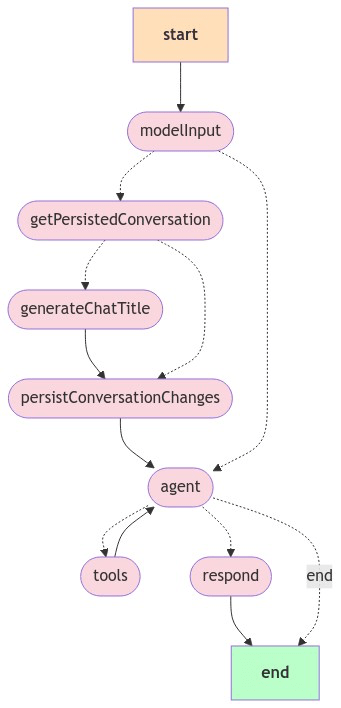
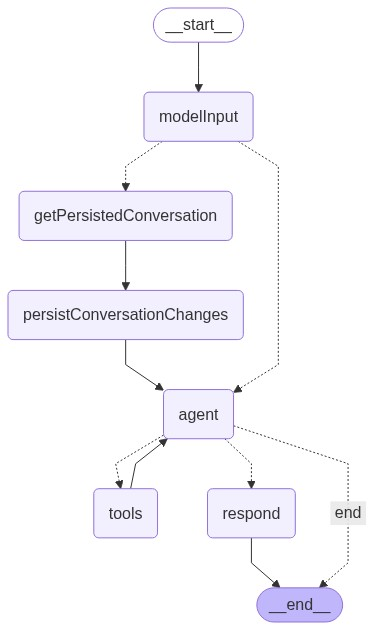
[Security assistant] Remove title creation step from graph (#226864)

diff --git a/x-pack/solutions/security/plugins/elastic_assistant/server/lib/langchain/graphs/default_assistant_graph/nodes/generate_chat_title.ts b/x-pack/solutions/security/plugins/elastic_assistant/server/lib/langchain/graphs/default_assistant_graph/nodes/generate_chat_title.ts
@@ -10,9 +10,11 @@ import { ChatPromptTemplate } from '@langchain/core/prompts';
 import { BaseChatModel } from '@langchain/core/language_models/chat_models';
 import { TelemetryParams } from '@kbn/langchain/server/tracers/telemetry/telemetry_tracer';
 import { AnalyticsServiceSetup } from '@kbn/core-analytics-server';
+import { NEW_CHAT } from '../../../../../routes/helpers';
+import { AIAssistantConversationsDataClient } from '../../../../../ai_assistant_data_clients/conversations';
 import { INVOKE_ASSISTANT_ERROR_EVENT } from '../../../../telemetry/event_based_telemetry';
 import { getPrompt, promptDictionary } from '../../../../prompt';
-import { AgentState, NodeParamsBase } from '../types';
+import { GraphInputs, NodeParamsBase } from '../types';
 import { NodeType } from '../constants';
 import { promptGroupId } from '../../../../prompt/local_prompt_object';
 import { getActionTypeId } from '../../../../../routes/utils';
@@ -30,25 +32,43 @@ export const GENERATE_CHAT_TITLE_PROMPT = ({
   ]);
 
 export interface GenerateChatTitleParams extends NodeParamsBase {
-  state: AgentState;
+  state: Pick<
+    GraphInputs,
+    'connectorId' | 'conversationId' | 'llmType' | 'responseLanguage' | 'input' | 'isStream'
+  >;
   model: BaseChatModel;
+  conversationsDataClient?: AIAssistantConversationsDataClient;
   telemetryParams?: TelemetryParams;
   telemetry: AnalyticsServiceSetup;
 }
 
 export async function generateChatTitle({
   actionsClient,
+  conversationsDataClient,
   logger,
   savedObjectsClient,
   state,
   model,
   telemetryParams,
   telemetry,
-}: GenerateChatTitleParams): Promise<Partial<AgentState>> {
+}: GenerateChatTitleParams): Promise<void> {
+  if (!state.conversationId) {
+    return;
+  }
   try {
     logger.debug(
       () => `${NodeType.GENERATE_CHAT_TITLE}: Node state:\n${JSON.stringify(state, null, 2)}`
     );
+    const conversation = await conversationsDataClient?.getConversation({
+      id: state.conversationId,
+    });
+    if (!conversation) {
+      logger.debug('No conversation found, skipping chat title generation');
+      return;
+    }
+    if (conversation?.title?.length && conversation?.title !== NEW_CHAT) {
+      return;
+    }
 
     const outputParser = new StringOutputParser();
     const prompt = await getPrompt({
@@ -59,33 +79,42 @@ export async function generateChatTitle({
       provider: state.llmType,
       savedObjectsClient,
     });
-    const graph = GENERATE_CHAT_TITLE_PROMPT({ prompt, responseLanguage: state.responseLanguage })
+    const graph = GENERATE_CHAT_TITLE_PROMPT({
+      prompt,
+      responseLanguage: state.responseLanguage ?? 'English',
+    })
       .pipe(model)
-      .pipe(outputParser);
+      .pipe(outputParser)
+      .withConfig({ runName: 'Generate Chat Title' });
 
     const chatTitle = await graph.invoke({
       input: JSON.stringify(state.input, null, 2),
     });
     logger.debug(`chatTitle: ${chatTitle}`);
 
-    return {
-      chatTitle,
-      lastNode: NodeType.GENERATE_CHAT_TITLE,
-    };
+    if (conversation?.title !== chatTitle) {
+      await conversationsDataClient?.updateConversation({
+        conversationUpdateProps: {
+          id: state.conversationId,
+          title: chatTitle,
+        },
+      });
+    }
   } catch (e) {
     telemetry.reportEvent(INVOKE_ASSISTANT_ERROR_EVENT.eventType, {
-      actionTypeId: telemetryParams?.actionTypeId ?? getActionTypeId(state.llmType),
+      actionTypeId: telemetryParams?.actionTypeId ?? getActionTypeId(state.llmType ?? `.gen-ai`),
       model: telemetryParams?.model,
       errorMessage: e.message ?? e.toString(),
-      assistantStreamingEnabled: telemetryParams?.assistantStreamingEnabled ?? state.isStream,
+      assistantStreamingEnabled:
+        telemetryParams?.assistantStreamingEnabled ?? state.isStream ?? true,
       isEnabledKnowledgeBase: telemetryParams?.isEnabledKnowledgeBase ?? false,
       errorLocation: 'generateChatTitle',
     });
-    return {
-      // generate a chat title if there is an error in order to complete the graph
-      // limit title to 60 characters
-      chatTitle: (e.name ?? e.message ?? e.toString()).slice(0, 60),
-      lastNode: NodeType.GENERATE_CHAT_TITLE,
-    };
+    await conversationsDataClient?.updateConversation({
+      conversationUpdateProps: {
+        id: state.conversationId,
+        title: (e.name ?? e.message ?? e.toString()).slice(0, 60),
+      },
+    });
   }
 }

diff --git a/x-pack/solutions/security/plugins/elastic_assistant/server/lib/langchain/graphs/default_assistant_graph/graph.ts b/x-pack/solutions/security/plugins/elastic_assistant/server/lib/langchain/graphs/default_assistant_graph/graph.ts
@@ -24,7 +24,6 @@ import { stepRouter } from './nodes/step_router';
 import { modelInput } from './nodes/model_input';
 import { runAgent } from './nodes/run_agent';
 import { executeTools } from './nodes/execute_tools';
-import { generateChatTitle } from './nodes/generate_chat_title';
 import { getPersistedConversation } from './nodes/get_persisted_conversation';
 import { persistConversationChanges } from './nodes/persist_conversation_changes';
 import { respond } from './nodes/respond';
@@ -87,10 +86,6 @@ export const getDefaultAssistantGraph = ({
           conversationsDataClient: dataClients?.conversationsDataClient,
         })
       )
-      .addNode(NodeType.GENERATE_CHAT_TITLE, async (state: AgentState) => {
-        const model = await createLlmInstance();
-        return generateChatTitle({ ...nodeParams, state, model, telemetryParams, telemetry });
-      })
       .addNode(NodeType.PERSIST_CONVERSATION_CHANGES, (state: AgentState) =>
         persistConversationChanges({
           ...nodeParams,
@@ -122,19 +117,15 @@ export const getDefaultAssistantGraph = ({
         const model = await createLlmInstance();
         return respond({ ...nodeParams, config: { signal }, state, model });
       })
+      .addEdge(NodeType.GET_PERSISTED_CONVERSATION, NodeType.PERSIST_CONVERSATION_CHANGES)
+      .addEdge(NodeType.PERSIST_CONVERSATION_CHANGES, NodeType.AGENT)
       .addNode(NodeType.MODEL_INPUT, (state: AgentState) => modelInput({ ...nodeParams, state }))
       .addEdge(START, NodeType.MODEL_INPUT)
       .addEdge(NodeType.RESPOND, END)
-      .addEdge(NodeType.GENERATE_CHAT_TITLE, NodeType.PERSIST_CONVERSATION_CHANGES)
-      .addEdge(NodeType.PERSIST_CONVERSATION_CHANGES, NodeType.AGENT)
       .addEdge(NodeType.TOOLS, NodeType.AGENT)
       .addConditionalEdges(NodeType.MODEL_INPUT, stepRouter, {
         [NodeType.GET_PERSISTED_CONVERSATION]: NodeType.GET_PERSISTED_CONVERSATION,
         [NodeType.AGENT]: NodeType.AGENT,
-      })
-      .addConditionalEdges(NodeType.GET_PERSISTED_CONVERSATION, stepRouter, {
-        [NodeType.PERSIST_CONVERSATION_CHANGES]: NodeType.PERSIST_CONVERSATION_CHANGES,
-        [NodeType.GENERATE_CHAT_TITLE]: NodeType.GENERATE_CHAT_TITLE,
       })
       .addConditionalEdges(NodeType.AGENT, stepRouter, {
         [NodeType.RESPOND]: NodeType.RESPOND,

diff --git a/x-pack/solutions/security/plugins/elastic_assistant/server/lib/langchain/graphs/default_assistant_graph/index.ts b/x-pack/solutions/security/plugins/elastic_assistant/server/lib/langchain/graphs/default_assistant_graph/index.ts
@@ -12,6 +12,7 @@ import { TelemetryTracer } from '@kbn/langchain/server/tracers/telemetry';
 import { pruneContentReferences, MessageMetadata } from '@kbn/elastic-assistant-common';
 import { getPrompt, resolveProviderAndModel } from '@kbn/security-ai-prompts';
 import { isEmpty } from 'lodash';
+import { generateChatTitle } from './nodes/generate_chat_title';
 import { localToolPrompts, promptGroupId as toolsGroupId } from '../../../prompt/tool_prompts';
 import { promptGroupId } from '../../../prompt/local_prompt_object';
 import { getFormattedTime, getModelOrOss } from '../../../prompt/helpers';
@@ -279,6 +280,26 @@ export const callAssistantGraph: AgentExecutor<true | false> = async ({
     input: latestMessage[0]?.content as string,
     provider: provider ?? '',
   };
+
+  // make a fire and forget async call to generateChatTitle
+  void (async () => {
+    const model = await createLlmInstance();
+    await generateChatTitle({
+      actionsClient,
+      contentReferencesStore,
+      conversationsDataClient: dataClients?.conversationsDataClient,
+      logger,
+      savedObjectsClient,
+      state: {
+        ...inputs,
+      },
+      model,
+      telemetryParams,
+      telemetry,
+    }).catch((error) => {
+      logger.error(`Failed to generate chat title: ${error.message}`);
+    });
+  })();
 
   if (isStream) {
     return streamGraph({

diff --git a/x-pack/solutions/security/plugins/elastic_assistant/server/lib/langchain/graphs/default_assistant_graph/nodes/persist_conversation_changes.ts b/x-pack/solutions/security/plugins/elastic_assistant/server/lib/langchain/graphs/default_assistant_graph/nodes/persist_conversation_changes.ts
@@ -39,16 +39,6 @@ export async function persistConversationChanges({
     };
   }
 
-  let conversation;
-  if (state.conversation?.title !== state.chatTitle) {
-    conversation = await conversationsDataClient?.updateConversation({
-      conversationUpdateProps: {
-        id: state.conversationId,
-        title: state.chatTitle,
-      },
-    });
-  }
-
   const lastMessage = state.conversation.messages
     ? state.conversation.messages[state.conversation.messages.length - 1]
     : undefined;
@@ -64,7 +54,7 @@ export async function persistConversationChanges({
   }
 
   const updatedConversation = await conversationsDataClient?.appendConversationMessages({
-    existingConversation: conversation ? conversation : state.conversation,
+    existingConversation: state.conversation,
     messages: [
       {
         content: replaceAnonymizedValuesWithOriginalValues({

diff --git a/x-pack/solutions/security/plugins/elastic_assistant/server/lib/langchain/graphs/default_assistant_graph/nodes/step_router.ts b/x-pack/solutions/security/plugins/elastic_assistant/server/lib/langchain/graphs/default_assistant_graph/nodes/step_router.ts
@@ -7,7 +7,6 @@
 
 import { NodeType } from '../constants';
 import { AgentState } from '../types';
-import { NEW_CHAT } from '../../../../../routes/helpers';
 
 /*
  * We use a single router endpoint for common conditional edges.
@@ -22,12 +21,6 @@ export function stepRouter(state: AgentState): string {
         return state.hasRespondStep ? NodeType.RESPOND : NodeType.END;
       }
       return NodeType.TOOLS;
-
-    case NodeType.GET_PERSISTED_CONVERSATION:
-      if (state.conversation?.title?.length && state.conversation?.title !== NEW_CHAT) {
-        return NodeType.PERSIST_CONVERSATION_CHANGES;
-      }
-      return NodeType.GENERATE_CHAT_TITLE;
 
     case NodeType.MODEL_INPUT:
       return state.conversationId ? NodeType.GET_PERSISTED_CONVERSATION : NodeType.AGENT;
